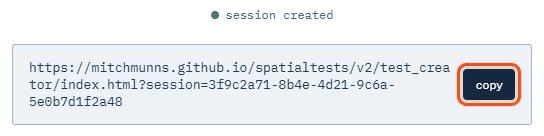
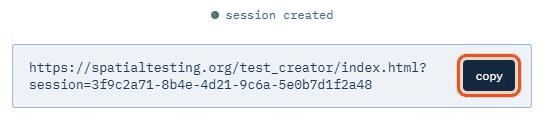
Guide: link screenshot shows a spatialtesting.org address

diff --git a/v2/index.html b/v2/index.html
@@ -2105,7 +2105,7 @@
         <li>Click <b>Generate pilot link</b> to try the test yourself first. When you are ready to collect data, click <b>Generate final link</b>.
           <figure class="guide-shot"><img src="guide/generate-buttons.png" alt="The buttons at the bottom of the Battery page, with Generate pilot link and Generate final link outlined" width="622" height="64" loading="lazy"></figure></li>
         <li>Click <b>copy</b> next to the link and send it to your participants, for example in Prolific, SONA, Qualtrics or an email.
-          <figure class="guide-shot"><img src="guide/copy-link.png" alt="The participant link, with the copy button outlined" width="544" height="136" loading="lazy"></figure></li>
+          <figure class="guide-shot"><img src="guide/copy-link.png" alt="The participant link, with the copy button outlined" width="544" height="120" loading="lazy"></figure></li>
         <li>Their results appear on your <b>Projects</b> page, where you can download the data.</li>
       </ol>
     </section>
